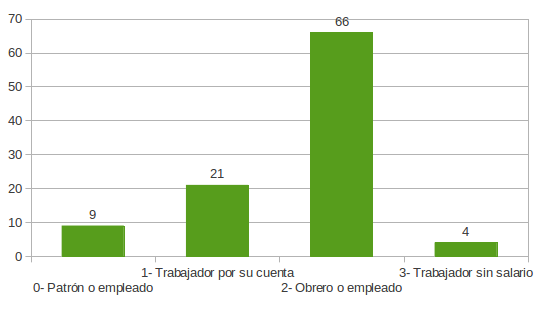
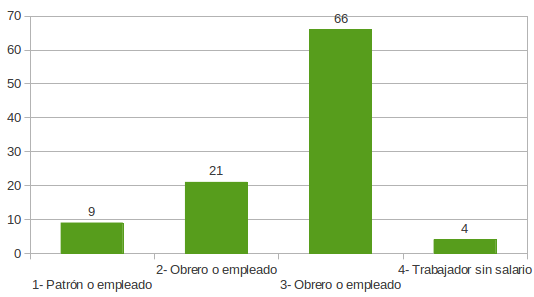
fin ejer 3

Changed region(s): [[0.0, 0.0303, 1.0, 1.0]]

diff --git a/act1/gen_csv.py b/act1/gen_csv.py
@@ -118,7 +118,7 @@ with open("tables/act3_2_{}.csv".format("usted_freq"), "w") as fp:
     for idx, values in enumerate(sorted(USTED_VARS.items())):
         k, cat = values
         rows = cool.filter(lambda r: int(r["USTED"]) == k)
-        writer.writerow([(unicode(idx) + "- "+ cat).encode("utf8"), len(rows)])
+        writer.writerow([(unicode(idx + 1) + "- "+ cat).encode("utf8"), len(rows)])
         cnt += len(rows)
     writer.writerow([u"Total", cnt])
 

diff --git a/act1/act1.rst b/act1/act1.rst
@@ -55,17 +55,17 @@ Actividad nro. 2
     - ESTUD (estudios que cursa o cursó) y
     - VIVIEN (tipo de vivienda).
 
-.. csv-table:: Tabla de frecuencia de Sexo
-    :file: tables/act2_1_sexo_freq.csv
+    .. csv-table:: Tabla de frecuencia de Sexo
+        :file: tables/act2_1_sexo_freq.csv
 
-.. csv-table:: Tabla de frecuencia de Estado Civil
-    :file: tables/act2_1_civil_freq.csv
+    .. csv-table:: Tabla de frecuencia de Estado Civil
+        :file: tables/act2_1_civil_freq.csv
 
-.. csv-table:: Tabla de frecuencia de Estudios
-    :file: tables/act2_1_estud_freq.csv
+    .. csv-table:: Tabla de frecuencia de Estudios
+        :file: tables/act2_1_estud_freq.csv
 
-.. csv-table:: Tabla de frecuencia de Viviendas
-    :file: tables/act2_1_vivien_freq.csv
+    .. csv-table:: Tabla de frecuencia de Viviendas
+        :file: tables/act2_1_vivien_freq.csv
 
 
 2) Responda las siguientes cuestiones:
@@ -104,6 +104,23 @@ Actividad nro. 3
 2) Realice la tabla de frecuencias ordenada por categorías y responda
 a las siguientes preguntas.
 
-.. csv-table:: Tabla de frecuencia de Situación Laboral
-    :file: tables/act3_2_usted_freq.csv
+    .. csv-table:: Tabla de frecuencia de Situación Laboral
+        :file: tables/act3_2_usted_freq.csv
+
+
+    a) La variable ES USTED tiene :underline:`4` categorías que oscilan entre la
+       categoría :underline:`1 (Patrón o empleado)` y la categoría
+       :underline:`4 (Trabajador sin salario)`.
+
+    b) La categoría más frecuente o moda es la categoría :underline:`3` que
+       corresponde a la condición ocupacional de :underline:`Obrero o empleado`.
+       Esta categoría representa el :underline:`66` % del total de entrevistados.
+
+    c) La frecuencia relativa para la categoría "trabajador por su cuenta"
+       es :underline:`0.21` y representa el :underline:`21` % del total de
+       encuestados.
+
+    d) El :underline:`4` % de los encuestados, es decir, :underline:`4`
+       jefes de hogar son “trabajadores sin salario".
+
 
